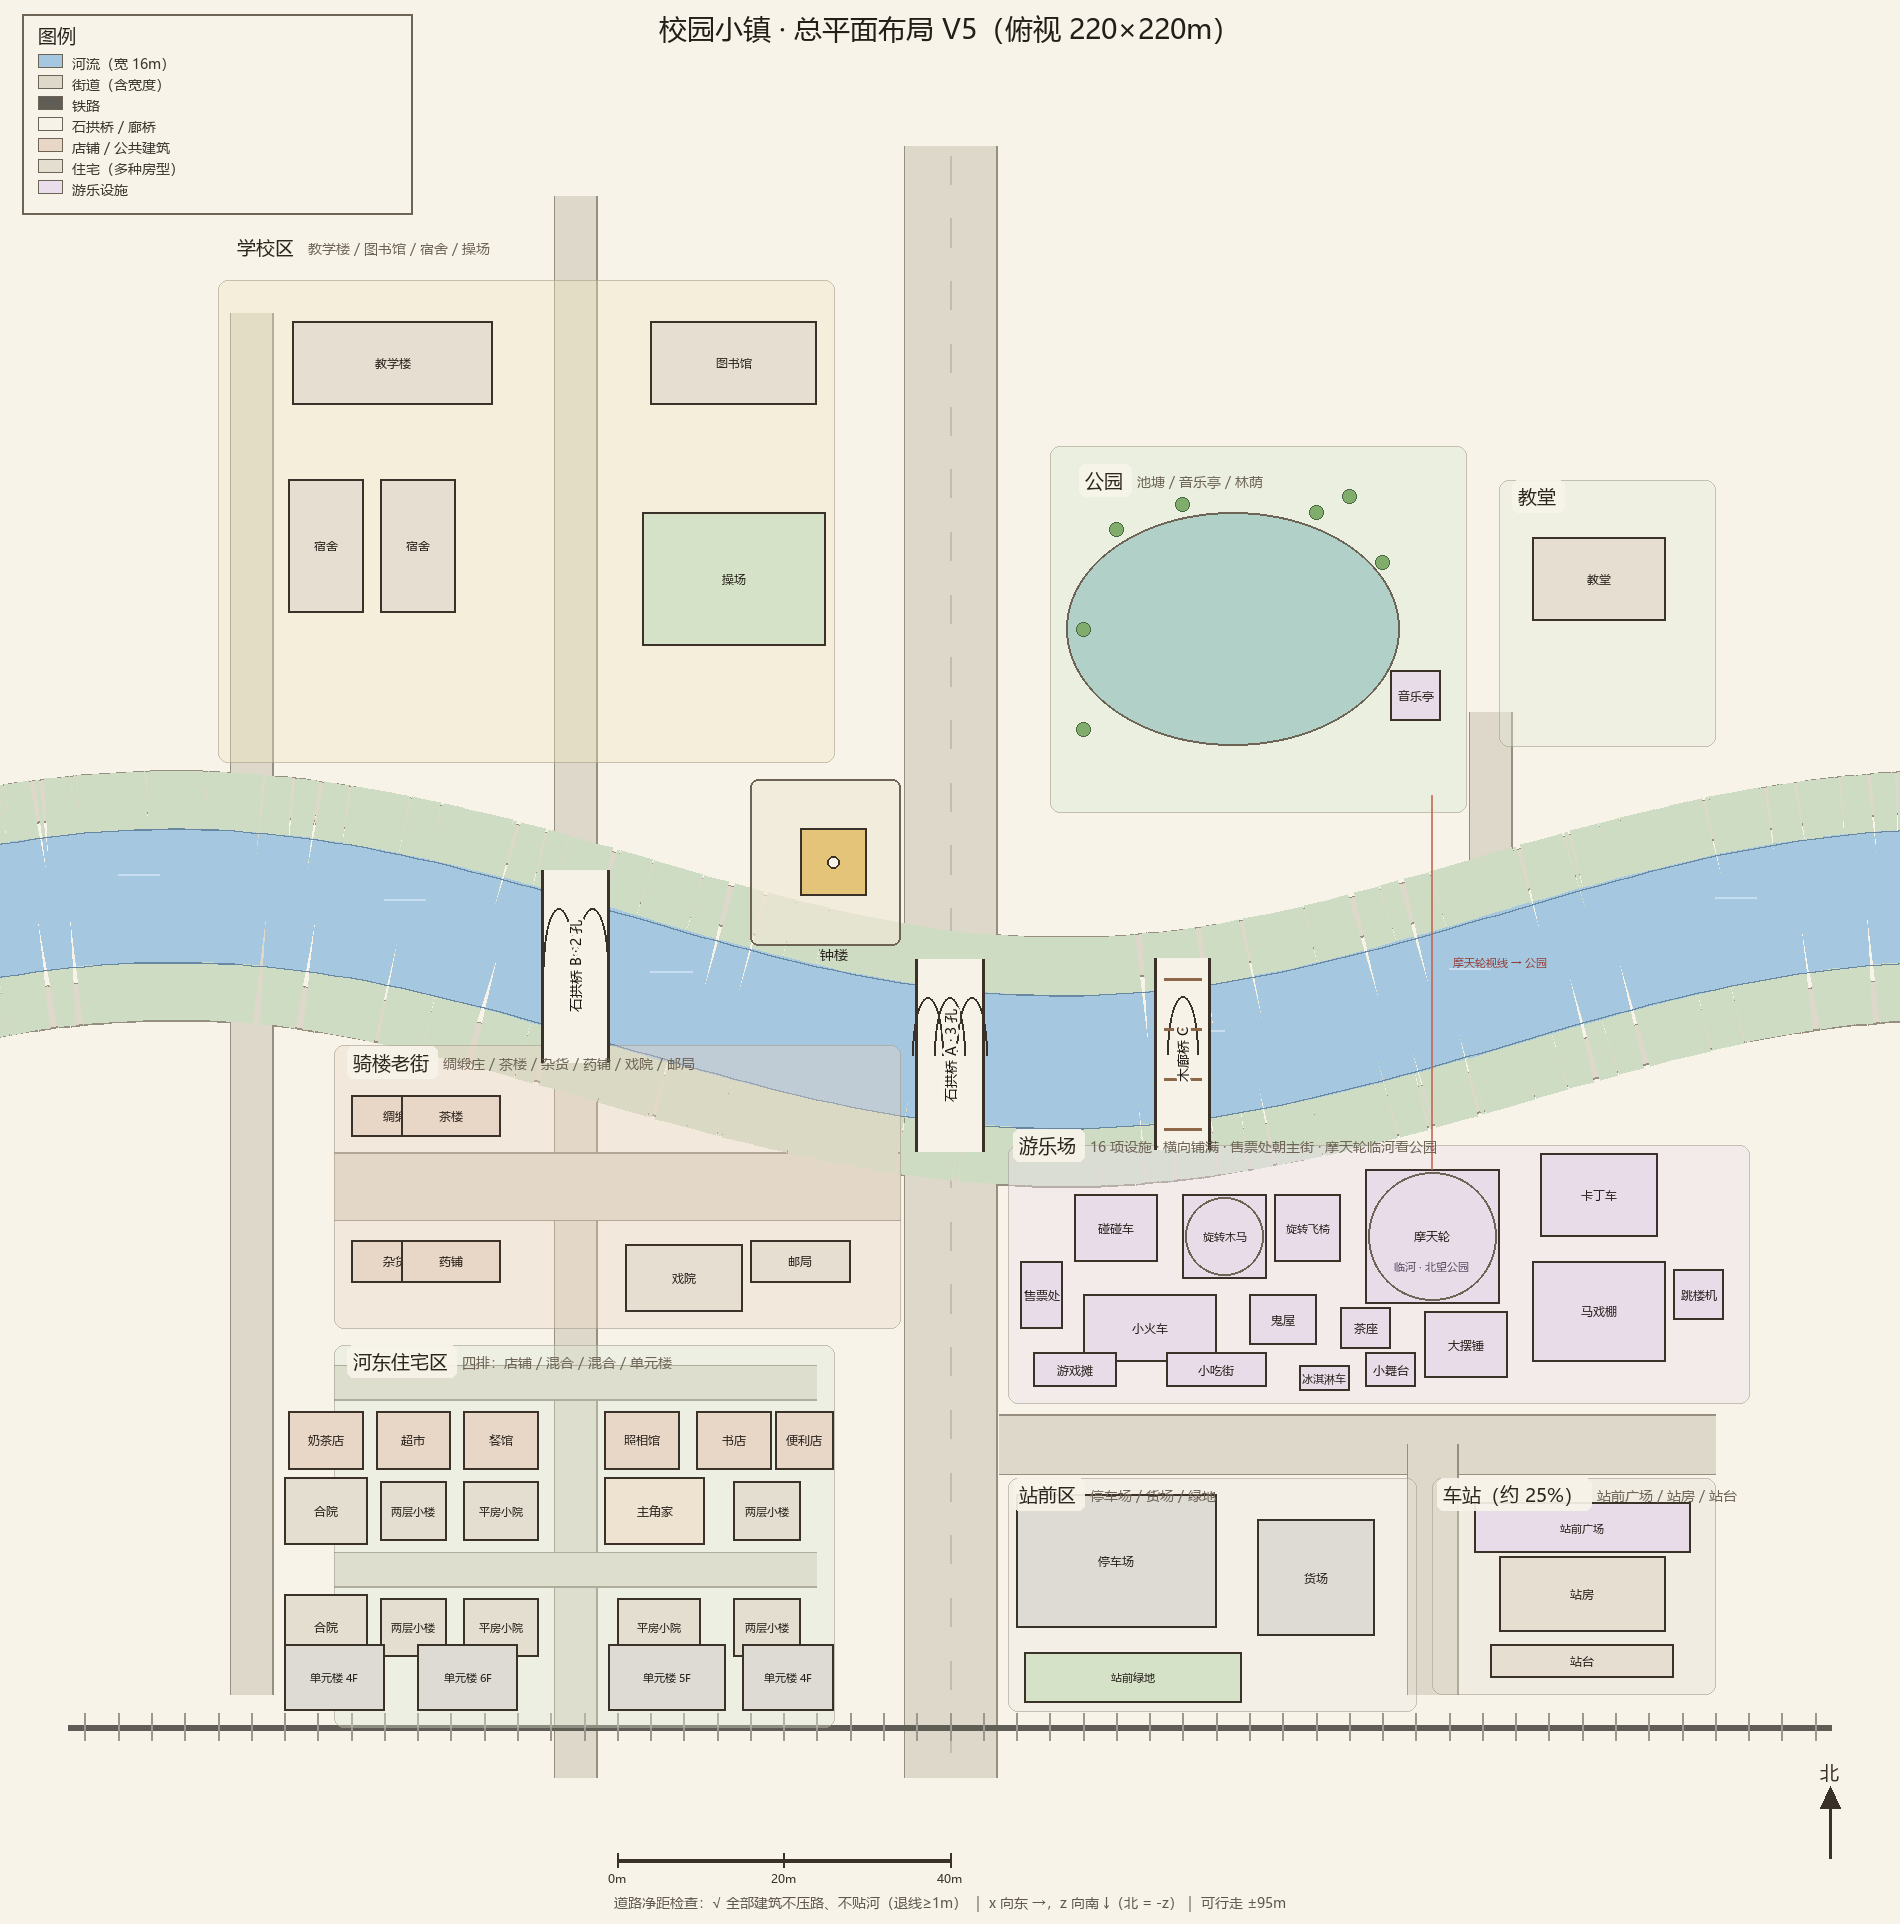
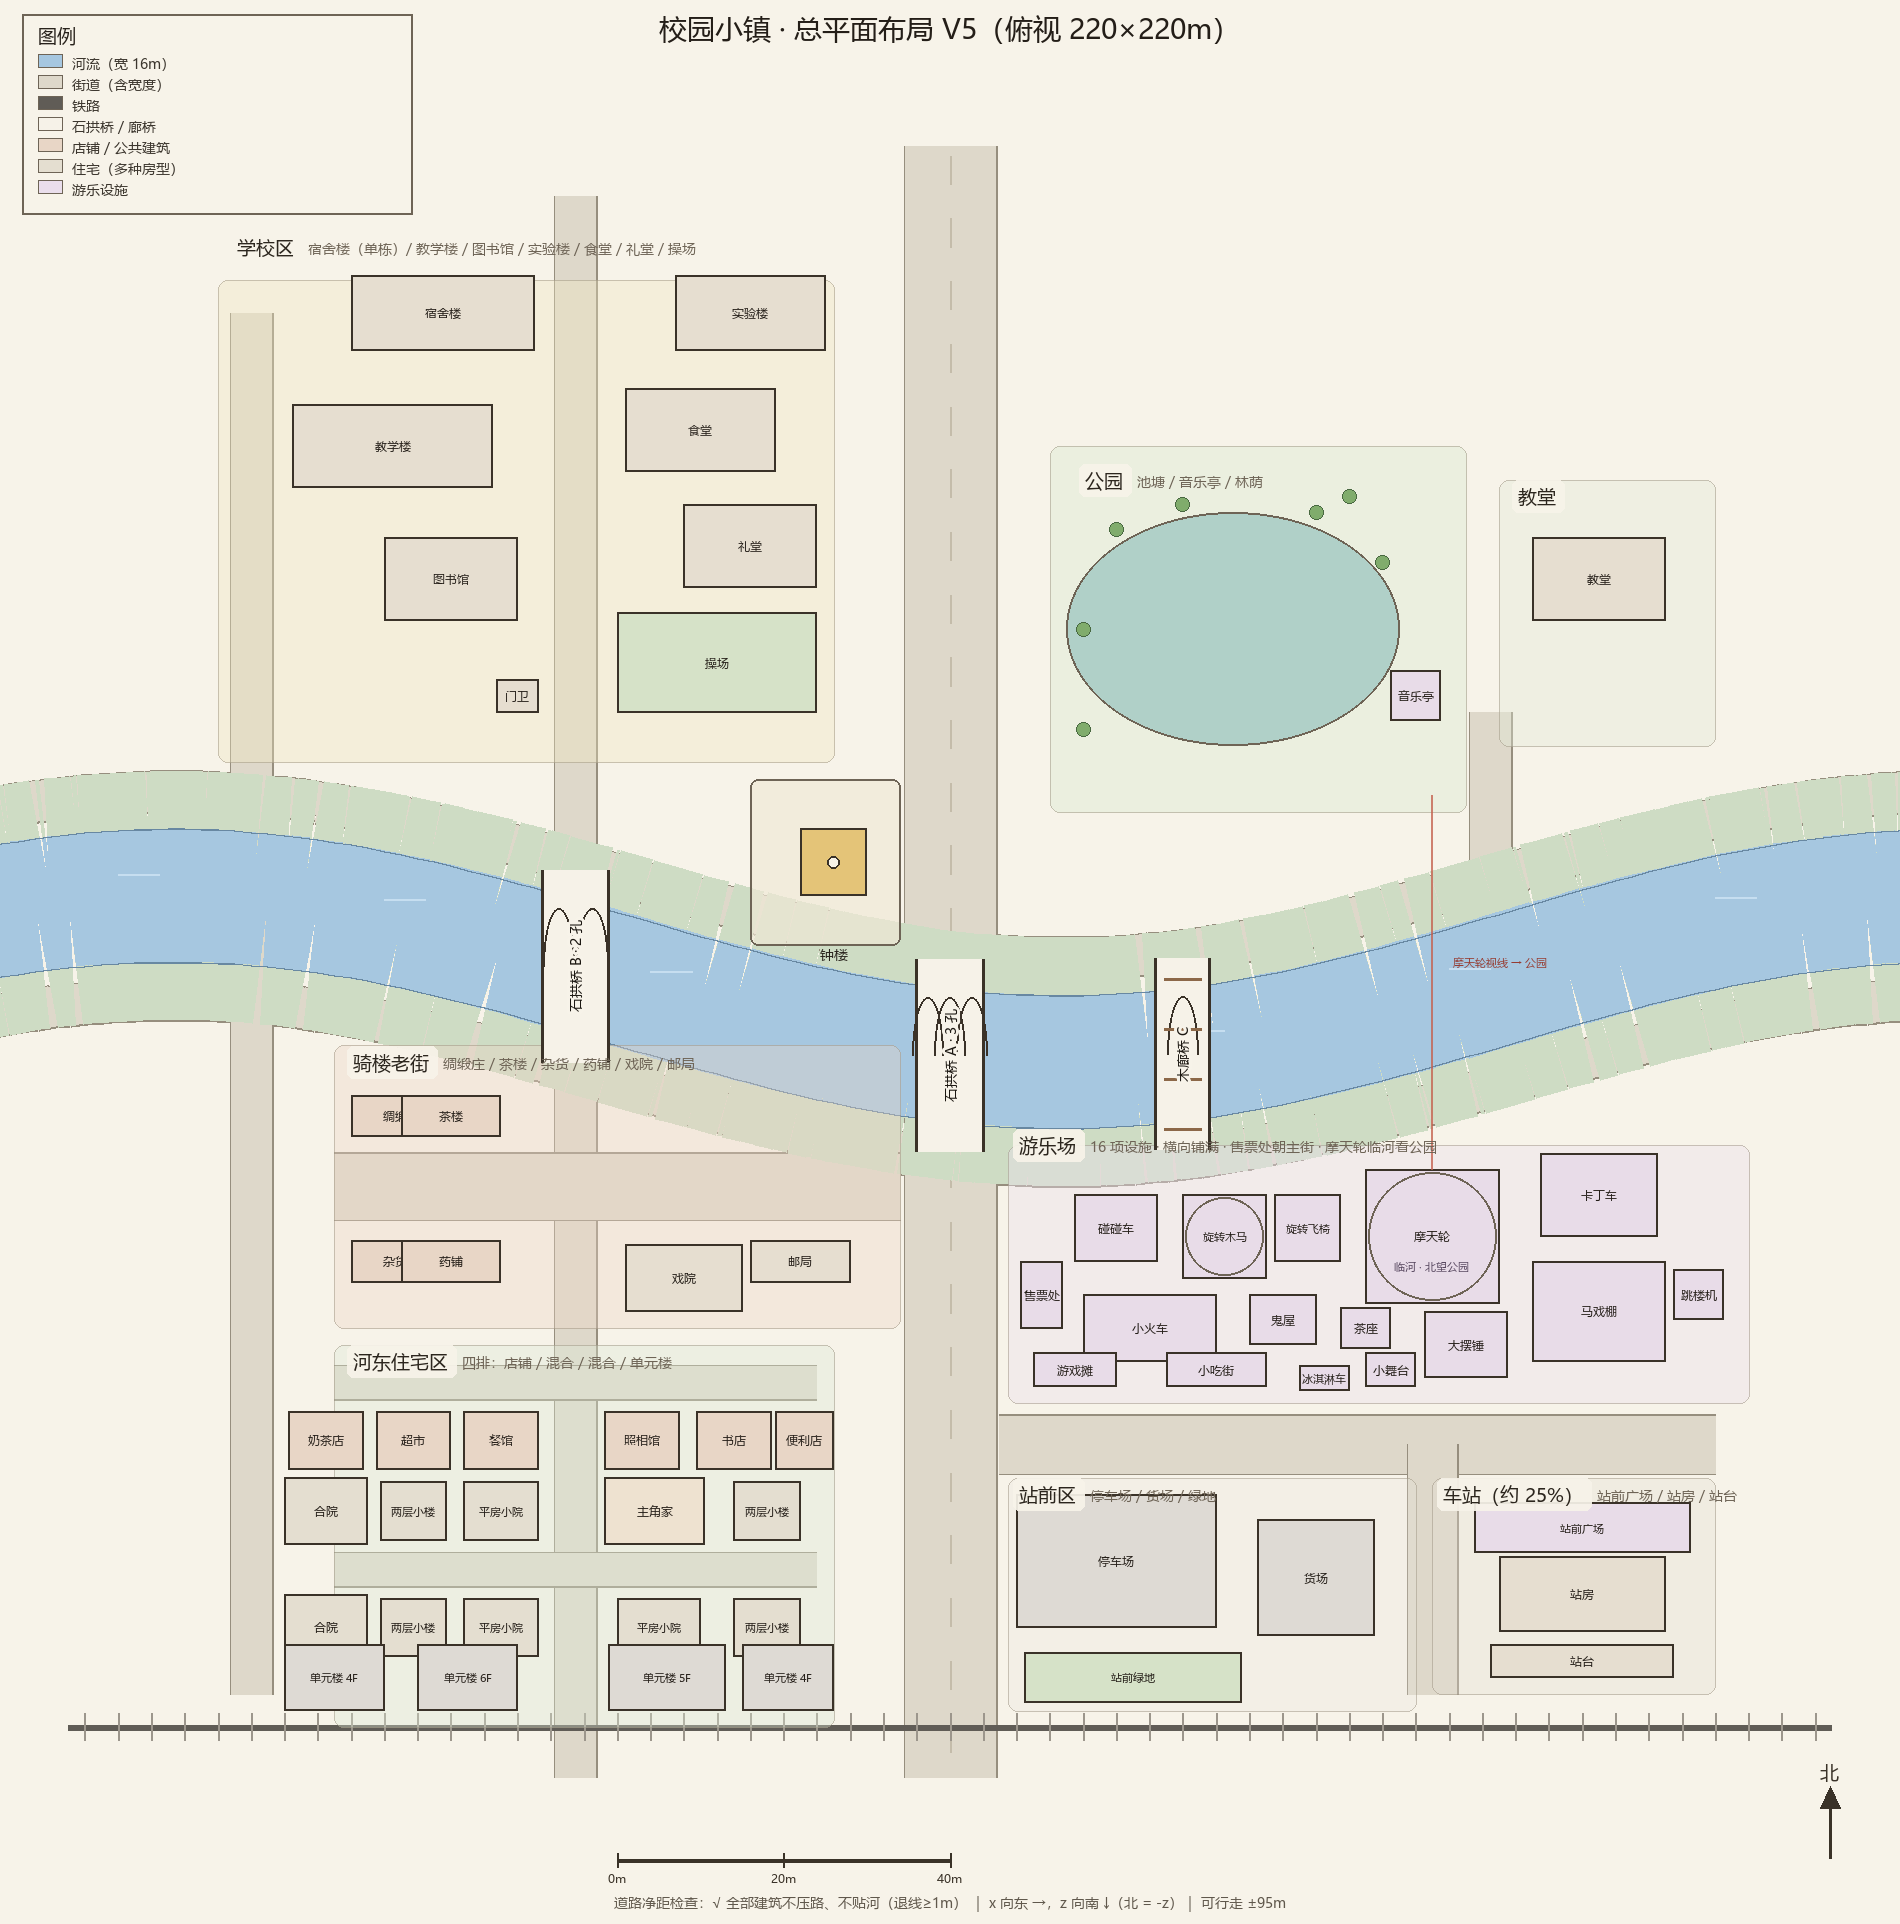
docs(设计): 学校区重排——最北一栋宿舍楼，补食堂/实验楼/礼堂/门卫
- 宿舍楼改为单栋、放在学校区最上（北缘），删除原来的两栋宿舍
- 新增：实验楼、食堂、礼堂、门卫；保留教学楼、图书馆、操场
- 中央街 x=-45 从校门向北穿校，两侧建筑退线均满足校验
- 净距校验重跑：√ 全部通过

diff --git a/docs/18-小镇总平面布局.md b/docs/18-小镇总平面布局.md
@@ -29,7 +29,10 @@
 ## 二、建筑与用途（全部标在图上）
 
 ### 学校区（西北，x -88~-14，z -82~-24）
-教学楼（24×10）｜图书馆（20×10）｜宿舍 ×2（9×16）｜操场（22×16）｜校门开在中央街 x=-45
+- **最上面（北缘）是唯一一栋宿舍楼**（22×9）
+- 西侧：教学楼（24×10）、图书馆（16×10）、门卫（5×4）
+- 东侧：实验楼（18×9）、食堂（18×10）、礼堂（16×10）、操场（24×12）
+- 中央街 x=-45 从校门（z=-30）向北穿校而过，两侧建筑均退线 ≥1m
 
 ### 公园（东北，x 12~62，z -62~-18）
 池塘（40×28 椭圆）｜音乐亭｜林荫树丛；南缘正对河面，是摩天轮的视线目标
